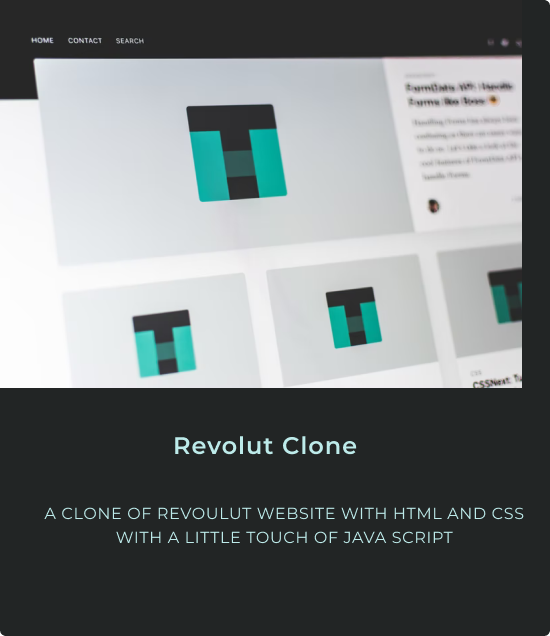
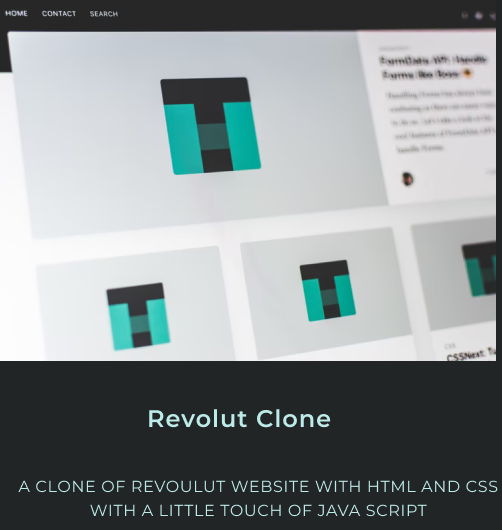
update

diff --git a/index.html b/index.html
@@ -8,36 +8,38 @@
     <link rel="stylesheet" href="query.css" />
   </head>
   <body>
-    
-     <header class="header">
-  
-       <nav class="navigationBar">
-
-         <!-- <div>
+    <header class="header">
+      <nav class="navigationBar">
+        <!-- <div>
     
             <a href="" class="logo"> 
                 <h1>Kanas</h1>
                </a>
          </div> -->
-         <div class="logo"><b>k<span>a</span>n<span>a</span>s</b></div>
-        
-            <div class="menu-links">
-              <ul class="menu-list">
-                <li><a href="#">Skills</a></li>
-                <li><a href="#about">About</a></li>
-                <li><a href="#project">Projects</a></li>
-                
-                <ul class="custom-btn " >
-                    <a href="https://docs.google.com/document/d/e/2PACX-1vTDz85b5AFqZoYhM0cnkfKD9ERKdLmd0oDxMkMHNekRUSv6g9ejwcDC9IAVOnR_J241wJu4mlf3GjmX/pub" class="btn " style="padding: 0.5rem;border-radius: 10px; " target="_blank">Resume</a>
-        
-                  </ul>
-/                
-            </ul>
-            </div>
+        <div class="logo"><b>k<span>a</span>n<span>a</span>s</b></div>
 
-             
-           
-          </nav>  
+        <div class="menu-links">
+          <ul class="menu-list">
+            <li><a href="#">Skills</a></li>
+            <li><a href="#about">About</a></li>
+            <li><a href="#project">Projects</a></li>
+
+            <ul class="custom-btn">
+              <a
+                href="https://docs.google.com/document/d/e/2PACX-1vTDz85b5AFqZoYhM0cnkfKD9ERKdLmd0oDxMkMHNekRUSv6g9ejwcDC9IAVOnR_J241wJu4mlf3GjmX/pub"
+                class="btn"
+                style="padding: 0.5rem; border-radius: 10px"
+                target="_blank"
+                >Resume</a
+              >
+            </ul>
+          </ul>
+        </div>
+        <div class="btn-mobile-nav">
+          <ion-icon class="icon-mobile-nav" name="menu-outline"></ion-icon>
+          <ion-icon class="icon-mobile-nav" name="close-outline"></ion-icon>
+        </div>
+      </nav>
     </header>
 
     <!-- MAIN SECTION -->
@@ -58,11 +60,12 @@
         <h1>About me.</h1>
         <p>
           I am Jimoh Nasihudeen Adegboyega, dedicated to crafting digital
-          experiences that thrive on the web.<br> As a fervent software developer, I
-          possess a robust proficiency in architecting inventive and streamlined
-          solutions. <br>With a month of industry experience, I have cultivated
-          expertise in HyperText Markup Language, frameworks,<br> and cutting-edge
-          development methodologies.
+          experiences that thrive on the web.<br />
+          As a fervent software developer, I possess a robust proficiency in
+          architecting inventive and streamlined solutions. <br />With a month
+          of industry experience, I have cultivated expertise in HyperText
+          Markup Language, frameworks,<br />
+          and cutting-edge development methodologies.
         </p>
       </section>
       <!-- SQUARE ANIMATIONS -->
@@ -89,31 +92,33 @@
         <h1>Projects</h1>
         <!-- LINK TO REVOLUT- CLONE PROJECT -->
         <div class="clone">
-            <div class="card">
-                <img src="/img/revolutclone.png" alt="" srcset="" />
-      
-                <div class="sharp">
-                  <a href="https://revolut-dlt.netlify.app/" target="_blank">
-                    <ion-icon name="link-sharp"></ion-icon>
-                  </a>
-                  <a href="https://github.com/Kanasjnr/Revolut_Clone.git" target="_blank">
-                    <ion-icon name="logo-github"></ion-icon>
-                  </a>
-                </div>
-              </div>
-                <div class="card">
-                  <img src="/img/revolutclone.png" alt="" srcset="" />
-                  <div class="sharp">
-                      <a href="https://revolut-dlt.netlify.app/" target="_blank">
-                        <ion-icon name="link-sharp"></ion-icon>
-                      </a>
-                      <a href="https://github.com/Kanasjnr/potfolio" target="_blank">
-                        <ion-icon name="logo-github"></ion-icon>
-                      </a>
-                    </div>
-                </div>
+          <div class="card">
+            <img src="/img/revolutclone.png" alt="" srcset="" />
+
+            <div class="sharp">
+              <a href="https://revolut-dlt.netlify.app/" target="_blank">
+                <ion-icon name="link-sharp"></ion-icon>
+              </a>
+              <a
+                href="https://github.com/Kanasjnr/Revolut_Clone.git"
+                target="_blank"
+              >
+                <ion-icon name="logo-github"></ion-icon>
+              </a>
+            </div>
+          </div>
+          <div class="card">
+            <img src="/img/revolutclone.png" alt="" srcset="" />
+            <div class="sharp">
+              <a href="https://revolut-dlt.netlify.app/" target="_blank">
+                <ion-icon name="link-sharp"></ion-icon>
+              </a>
+              <a href="https://github.com/Kanasjnr/potfolio" target="_blank">
+                <ion-icon name="logo-github"></ion-icon>
+              </a>
+            </div>
+          </div>
         </div>
-        
       </section>
 
       <!-- SKILL ICONS -->
@@ -134,7 +139,7 @@
           </div>
         </div>
       </section>
-      
+
       <section class="connect container">
         <h1>CONECT WITH ME</h1>
         <!-- SOCIAL ICONS -->
@@ -182,7 +187,7 @@
         </form>
       </section>
     </main>
-    
+
     <footer>
       <p>
         Copyright &copy; 2023 Jimoh Nasihudeen Adegboyega.<br />

diff --git a/style.css b/style.css
@@ -1,4 +1,6 @@
- @import url('https://fonts.googleapis.com/css2?family=Inter:wght@100;200;300;400;500;600;700&family=Lato:wght@300;400;700&family=Montserrat:wght@300;400;500;600;700&family=Roboto:wght@300;400;500;700&family=Sofia+Sans:wght@300;400;500;600;700;800&family=Syne:wght@400;500;600;700&display=swap');
+
+
+@import url('https://fonts.googleapis.com/css2?family=Inter:wght@100;200;300;400;500;600;700&family=Lato:wght@300;400;700&family=Montserrat:wght@300;400;500;600;700&family=Roboto:wght@300;400;500;700&family=Sofia+Sans:wght@300;400;500;600;700;800&family=Syne:wght@400;500;600;700&display=swap');
 
 * {
   text-decoration: none;
@@ -20,7 +22,65 @@ body {
 a{
   color: #bdebea;
 
+  .logo b{
+    font: 200 10vh "Vibur";
+    /* color: #fee; */
+    text-shadow: 0 -40px 100px, 0 0 2px, 0 0 1em #BDEBEA, 0 0 0.5em #0bf4f3, 0 0 0.1em #0bf4f3, 0 10px 3px #0bf4f3;
+  }
+  .logo b span{
+    animation: blink linear infinite 2s;
+  }
+  .logo b span:nth-of-type(2){
+    animation: blink linear infinite 3s;
+  }
+  @keyframes blink {
+    78% {
+      color: inherit;
+      text-shadow: inherit;
+    }
+    79%{
+       color: #0bf4f3;
+    }
+    80% {
+      
+      text-shadow: none;
+    }
+    81% {
+      color: inherit;
+      text-shadow: inherit;
+    }
+    82% {
+      color: #333;
+      text-shadow: none;
+    }
+    83% {
+      color: inherit;
+      text-shadow: inherit;
+    }
+    92% {
+      color: #333;
+      text-shadow: none;
+    }
+    92.5% {
+      color: inherit;
+      text-shadow: inherit;
+    }
+  }
+  
+  
+  .btn-mobile-nav {
+    cursor: pointer;
+    background: none;
+    border: none;
+  }
+  
+  .icon-mobile-nav {
+    width: 4.8rem;
+    height: 4.8rem;
+    color: #000000;
+  }
 }
+
 /* NAVIGATION BAR */
 .navigationBar {
   display: flex;
@@ -426,54 +486,6 @@ ion-icon:hover {
   gap: 2rem;
 
 }
-
-
-.logo b{
-  font: 200 10vh "Vibur";
-  /* color: #fee; */
-  text-shadow: 0 -40px 100px, 0 0 2px, 0 0 1em #BDEBEA, 0 0 0.5em #0bf4f3, 0 0 0.1em #0bf4f3, 0 10px 3px #0bf4f3;
-}
-.logo b span{
-  animation: blink linear infinite 2s;
-}
-.logo b span:nth-of-type(2){
-  animation: blink linear infinite 3s;
-}
-@keyframes blink {
-  78% {
-    color: inherit;
-    text-shadow: inherit;
-  }
-  79%{
-     color: #0bf4f3;
-  }
-  80% {
-    
-    text-shadow: none;
-  }
-  81% {
-    color: inherit;
-    text-shadow: inherit;
-  }
-  82% {
-    color: #333;
-    text-shadow: none;
-  }
-  83% {
-    color: inherit;
-    text-shadow: inherit;
-  }
-  92% {
-    color: #333;
-    text-shadow: none;
-  }
-  92.5% {
-    color: inherit;
-    text-shadow: inherit;
-  }
-}
-
-
 
 
 

diff --git a/query.css b/query.css
@@ -2,10 +2,12 @@
   .navigationBar{
     display: none;
   }
-  .btn-mobile-nav{
+
+  /* .btn-mobile-nav{
     display: block;
     z-index: 9999;
-  }
+  } */
+
   .navigationBar{
     background-color: #041f31;
     display: flex;
@@ -44,11 +46,14 @@ display: none;
   .clone{
     width: auto;
     height: auto;
+   
   }
 .clone img{
-  width: 350px;
+  width: 300px;
 }
-
+h1{
+  font-size: 35px;
+}
 }
 
 @media (max-width: 600px) {
@@ -105,7 +110,7 @@ column-gap: 1rem;
     flex-direction: column;
   }
   #myProject{
-    width: 250px;
+    /* width: 250px; */
     border-radius: 5px;
   }
 

diff --git a/script.js b/script.js
@@ -4,5 +4,6 @@ const headerEl = document.querySelector(".header");
 btnNavEl.addEventListener("click", function() {
     headerEl.classList.toggle("nav-open")
 });
+  
 
 
